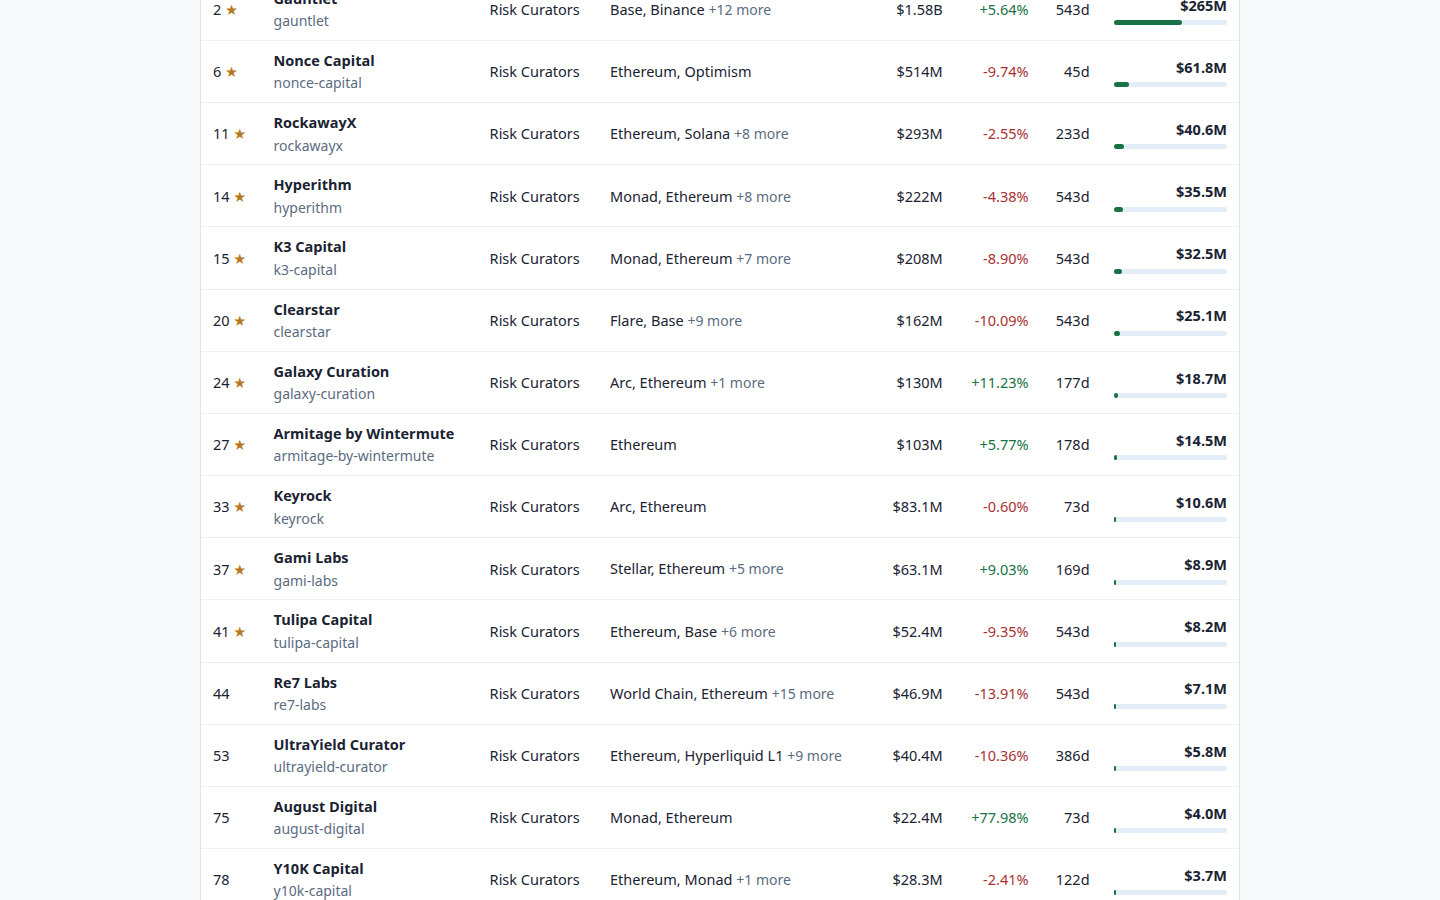
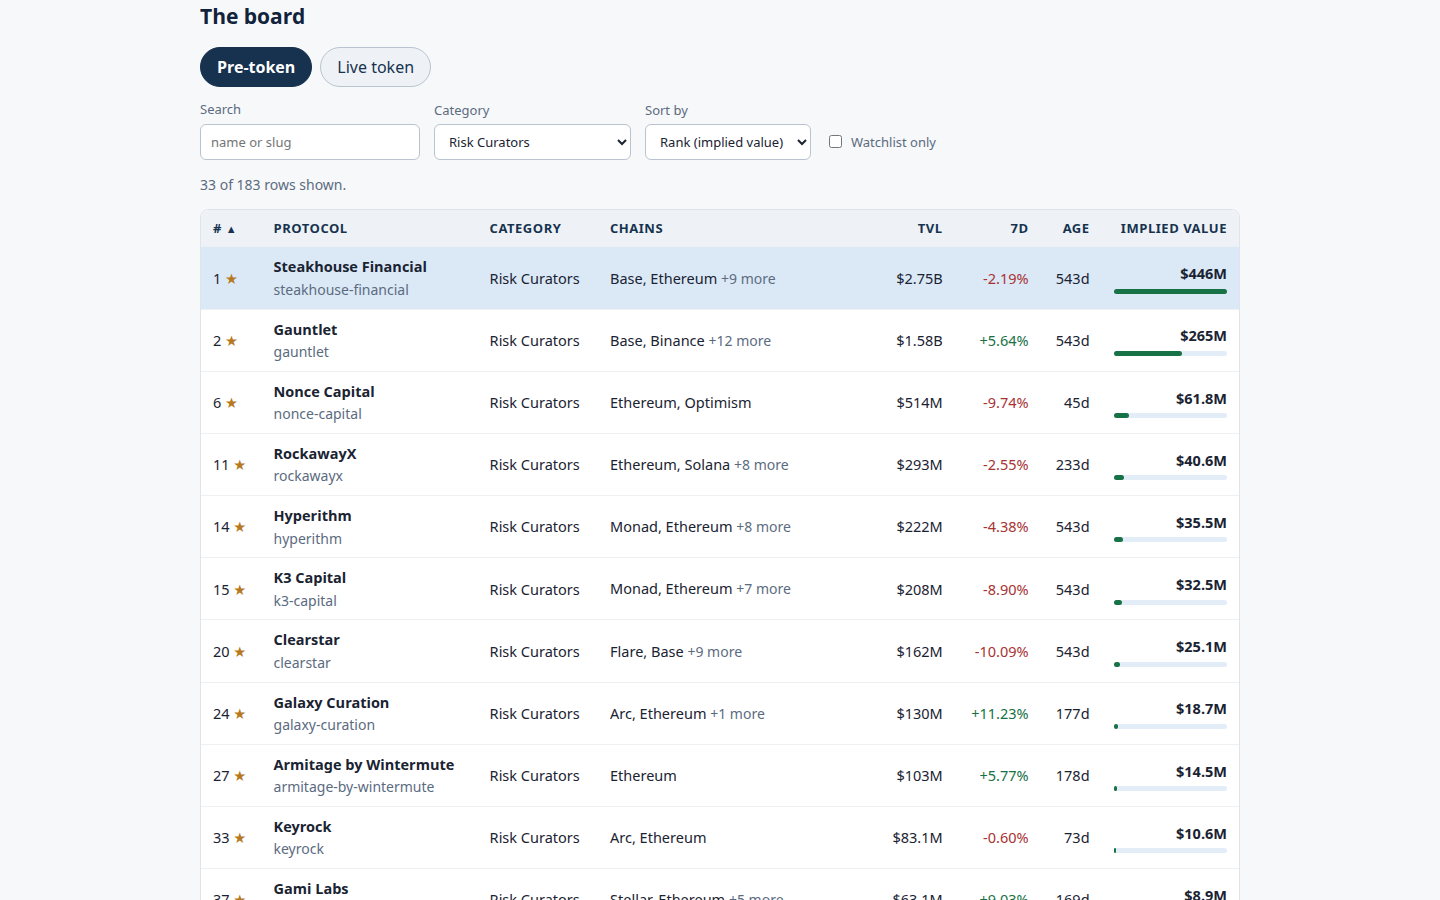
Token Radar pivot P5: Pre-token/Live tabs, empty state, keyboard rows (criteria 4)
- Tabs above the board swap the ranked table for the live-token table
  (24 rows, Market cap column); the old separate Live section is gone,
  its explanation kept as a note under the live table. Board controls
  hide while the Live tab is active.
- Empty state: a filter matching nothing shows 'No protocol matches
  that filter' + a Clear filters button that resets every control.
- Board rows are keyboard-focusable (tabindex + Enter/Space opens the
  detail); tabs carry aria-selected/aria-pressed.
- Verified live: 6/6 functional checks (tab switch, 24 live rows,
  empty state, clear restores 183 rows, Enter opens Veda detail,
  TVL header toggles desc/asc). Gates 7/7 PASS.

diff --git a/dashboard/index.html b/dashboard/index.html
@@ -21,6 +21,10 @@
 <main>
   <section id="board-wrap" aria-labelledby="board-h">
     <h2 id="board-h">The board</h2>
+    <div class="tabs" role="tablist" aria-label="Board view">
+      <button id="tab-pre" type="button" role="tab" aria-selected="true" aria-pressed="true">Pre-token</button>
+      <button id="tab-live" type="button" role="tab" aria-selected="false" aria-pressed="false">Live token</button>
+    </div>
     <div class="controls">
       <label>Search <input id="q" type="search" placeholder="name or slug" autocomplete="off"></label>
       <label>Category
@@ -37,7 +41,7 @@
       <label class="check"><input id="watch-only" type="checkbox"> Watchlist only</label>
     </div>
     <p id="board-meta" class="meta"></p>
-    <div class="table-wrap">
+    <div class="table-wrap" id="board-table-wrap">
       <table id="board">
         <thead><tr>
           <th data-sort="rank"><button type="button"># <span class="arrow"></span></button></th><th>Protocol</th><th>Category</th><th>Chains</th>
@@ -50,6 +54,20 @@
       </table>
     </div>
     <p class="hint">Select a row to see the factor breakdown and the farm plan.</p>
+    <div class="table-wrap" id="live-table-wrap" hidden>
+      <table id="live">
+        <thead><tr>
+          <th>Protocol</th><th>Category</th><th class="num">TVL</th>
+          <th class="num">Market cap</th><th class="num">7d</th>
+        </tr></thead>
+        <tbody></tbody>
+      </table>
+    </div>
+    <p id="live-note" class="meta" hidden>Live tokens — shown apart, at the market's own value. These protocols already trade; they are never mixed into the ranked board.</p>
+    <div id="board-empty" class="empty" hidden>
+      <p>No protocol matches that filter.</p>
+      <button id="clear-filters" type="button">Clear filters</button>
+    </div>
   </section>
 
   <section id="model" aria-labelledby="model-h">
@@ -166,22 +184,6 @@ maturityMult = 0.6 + min(age_days, 1095) / 1095 &times; 0.4   (age unknown: 365 
   <section id="detail" aria-labelledby="detail-h" hidden>
     <h2 id="detail-h">Protocol detail</h2>
     <div id="detail-body"></div>
-  </section>
-
-  <section id="live-wrap" aria-labelledby="live-h">
-    <h2 id="live-h">Live tokens — shown apart, at the market's own value</h2>
-    <p>These protocols already trade. They are <strong>never</strong> mixed into the
-    ranked board; their value here is the market cap the snapshot records, not a
-    model estimate.</p>
-    <div class="table-wrap">
-      <table id="live">
-        <thead><tr>
-          <th>Protocol</th><th>Category</th><th class="num">TVL</th>
-          <th class="num">Market cap</th><th class="num">7d</th>
-        </tr></thead>
-        <tbody></tbody>
-      </table>
-    </div>
   </section>
 
   <section id="tracked" aria-labelledby="tracked-h">

diff --git a/dashboard/app.js b/dashboard/app.js
@@ -62,6 +62,24 @@
   });
 
   var selected = null;
+  // Tab state (Pre-token / Live token) and whether the board filter is empty.
+  var liveTab = false;
+  var boardEmpty = false;
+  function updateBoardVisibility() {
+    $('board-table-wrap').hidden = liveTab || boardEmpty;
+    $('live-table-wrap').hidden = !liveTab;
+    $('live-note').hidden = !liveTab;
+    $('board-empty').hidden = liveTab || !boardEmpty;
+    $('board-wrap').classList.toggle('live', liveTab);
+  }
+  function setTab(which) {
+    liveTab = which === 'live';
+    $('tab-pre').setAttribute('aria-selected', String(!liveTab));
+    $('tab-pre').setAttribute('aria-pressed', String(!liveTab));
+    $('tab-live').setAttribute('aria-selected', String(liveTab));
+    $('tab-live').setAttribute('aria-pressed', String(liveTab));
+    updateBoardVisibility();
+  }
   // Sort state: the dropdown and the clickable column headers share it.
   // dir 1 = ascending by key, -1 = descending; rank ascending puts #1 first.
   var sortKey = 'rank';
@@ -124,9 +142,16 @@
         '<td class="num">' + ageText(r.age_days) + '</td>' +
         '<td class="num"><strong>' + money(r.implied_value_usd) + '</strong><span class="bar"><i style="width:' + barPct + '%"></i></span></td>';
       tr.addEventListener('click', function () { showDetail(r.slug); });
+      // Keyboard: a row is focusable; Enter or Space opens the detail.
+      tr.tabIndex = 0;
+      tr.addEventListener('keydown', function (e) {
+        if (e.key === 'Enter' || e.key === ' ') { e.preventDefault(); showDetail(r.slug); }
+      });
       tb.appendChild(tr);
     });
     $('board-meta').textContent = rows.length + ' of ' + R.rows.length + ' rows shown.';
+    boardEmpty = rows.length === 0;
+    updateBoardVisibility();
   }
 
   // ---- per-category detail extras (derived from the row's own fields) ----
@@ -306,6 +331,17 @@
     sortKey = $('sort').value;
     sortDir = sortDefaults[sortKey];
     updateSortUI();
+  });
+  // Tabs: Pre-token board vs Live-token table.
+  $('tab-pre').addEventListener('click', function () { setTab('pre'); });
+  $('tab-live').addEventListener('click', function () { setTab('live'); });
+  // Empty state: clear every filter and go back to the full board.
+  $('clear-filters').addEventListener('click', function () {
+    $('q').value = ''; $('cat').value = ''; $('sort').value = 'rank';
+    sortKey = 'rank'; sortDir = 1; $('watch-only').checked = false;
+    updateSortUI();
+    renderBoard();
+    $('q').focus();
   });
   ['q', 'cat', 'sort', 'watch-only'].forEach(function (id) {
     $(id).addEventListener('input', renderBoard);

diff --git a/dashboard/app.css b/dashboard/app.css
@@ -44,6 +44,14 @@ td.num, th.num { text-align: right; font-variant-numeric: tabular-nums; }
 th button { background: none; border: 0; padding: 0; font: inherit; color: inherit; text-transform: inherit; letter-spacing: inherit; cursor: pointer; }
 th button .arrow { font-size: 11px; }
 th button:focus-visible { outline: 2px solid #16324f; outline-offset: 2px; }
+.tabs { display: flex; gap: 8px; margin: 14px 0 0; }
+.tabs button { font: inherit; padding: 7px 16px; border: 1px solid #b9c4d0; border-radius: 999px; background: #eef2f6; color: #16324f; cursor: pointer; }
+.tabs button[aria-selected="true"] { background: #16324f; border-color: #16324f; color: #fff; font-weight: 700; }
+.tabs button:focus-visible { outline: 2px solid #16324f; outline-offset: 2px; }
+#board-wrap.live .controls, #board-wrap.live #board-meta, #board-wrap.live .hint { display: none; }
+.empty { background: #fff; border: 1px solid #dfe4ea; border-radius: 8px; padding: 22px; text-align: center; }
+.empty button { font: inherit; padding: 7px 16px; border: 1px solid #b9c4d0; border-radius: 6px; background: #fff; color: #16324f; cursor: pointer; }
+tbody tr:focus-visible { outline: 2px solid #16324f; outline-offset: -2px; }
 .bar { display: block; height: 5px; background: #e3edf7; border-radius: 3px; margin-top: 4px; }
 .bar i { display: block; height: 100%; background: #177245; border-radius: 3px; }
 tbody tr { cursor: pointer; }
